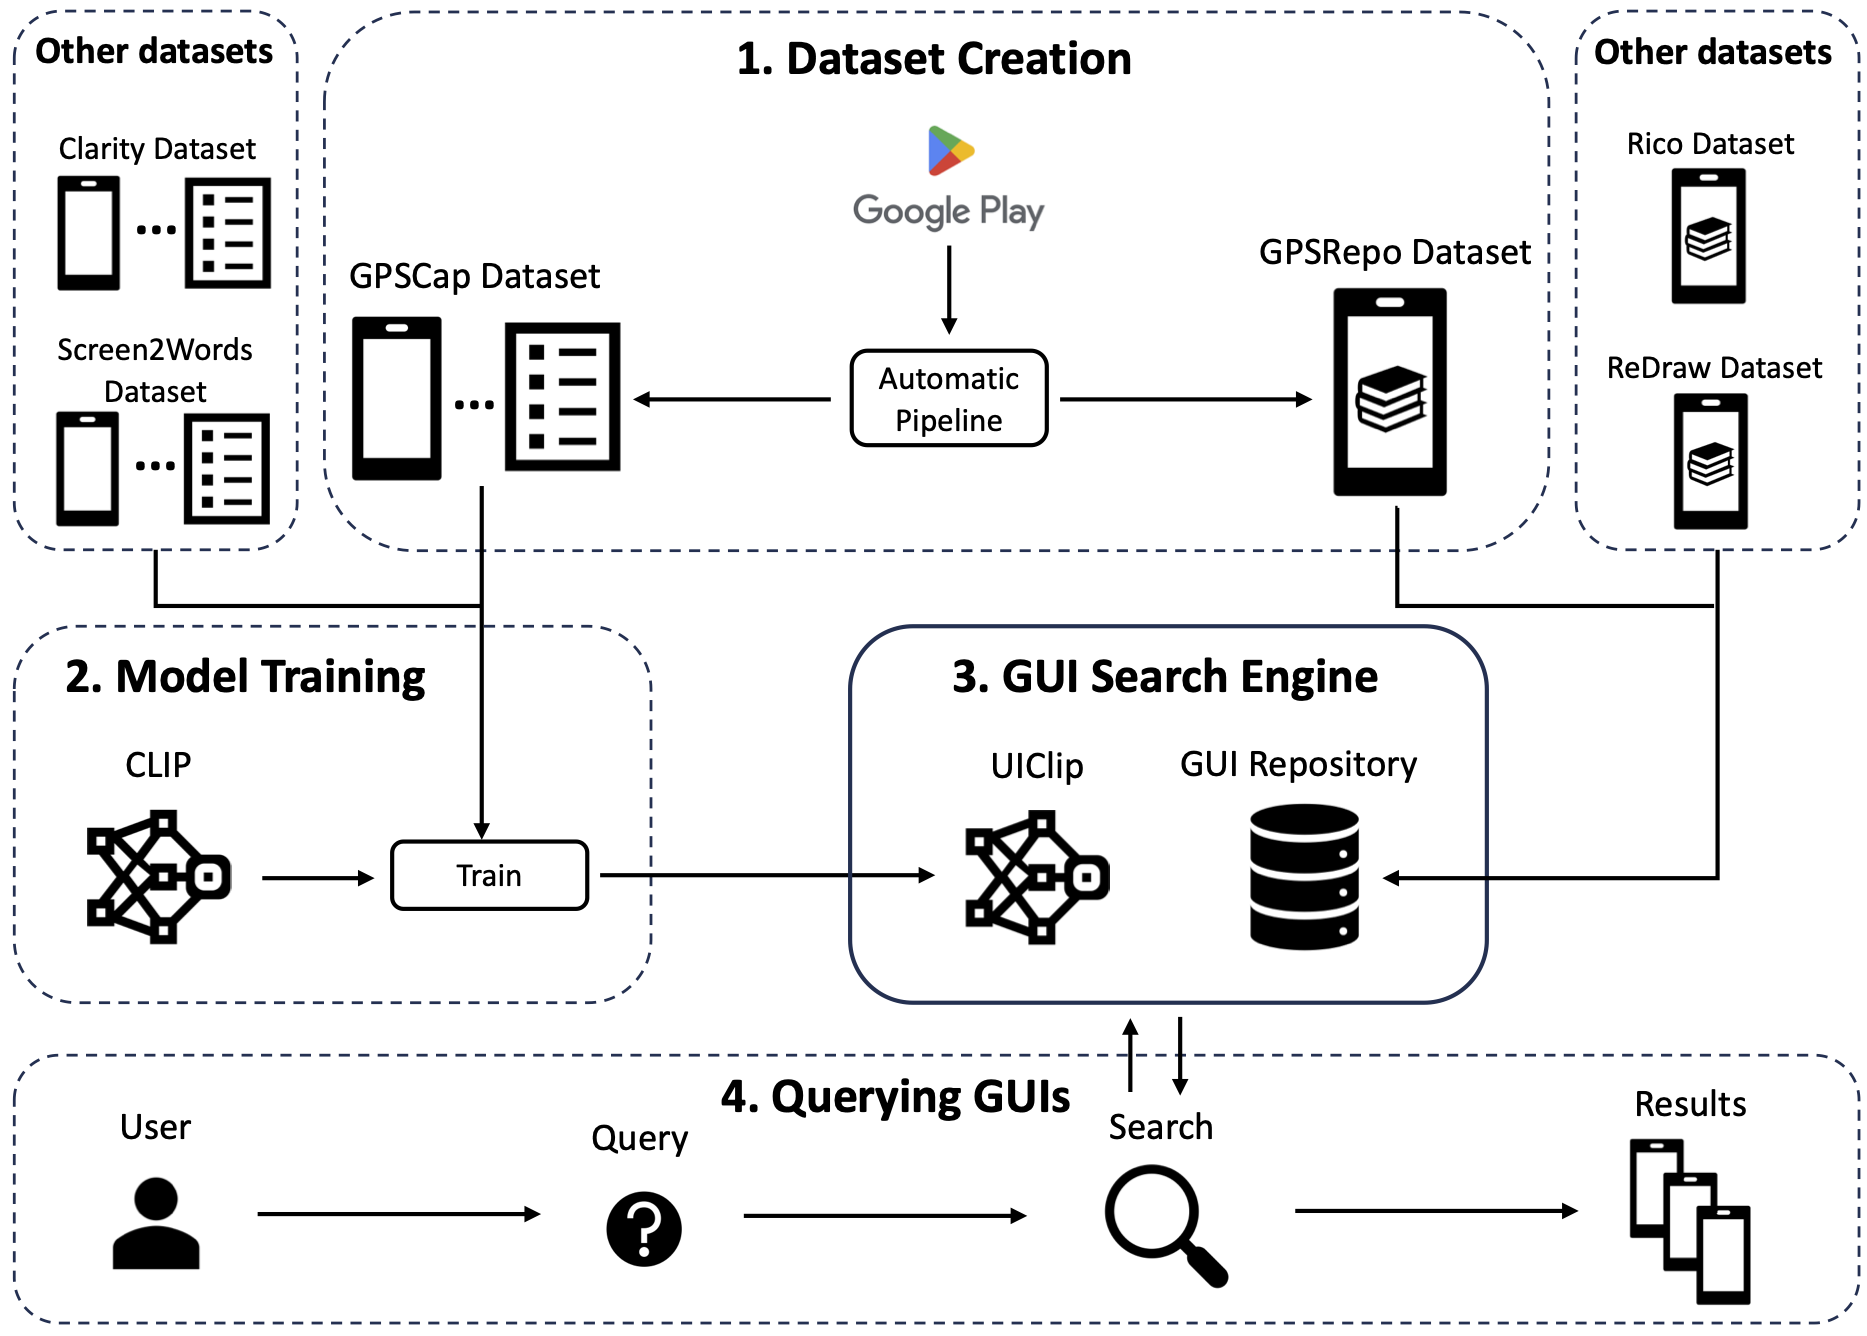
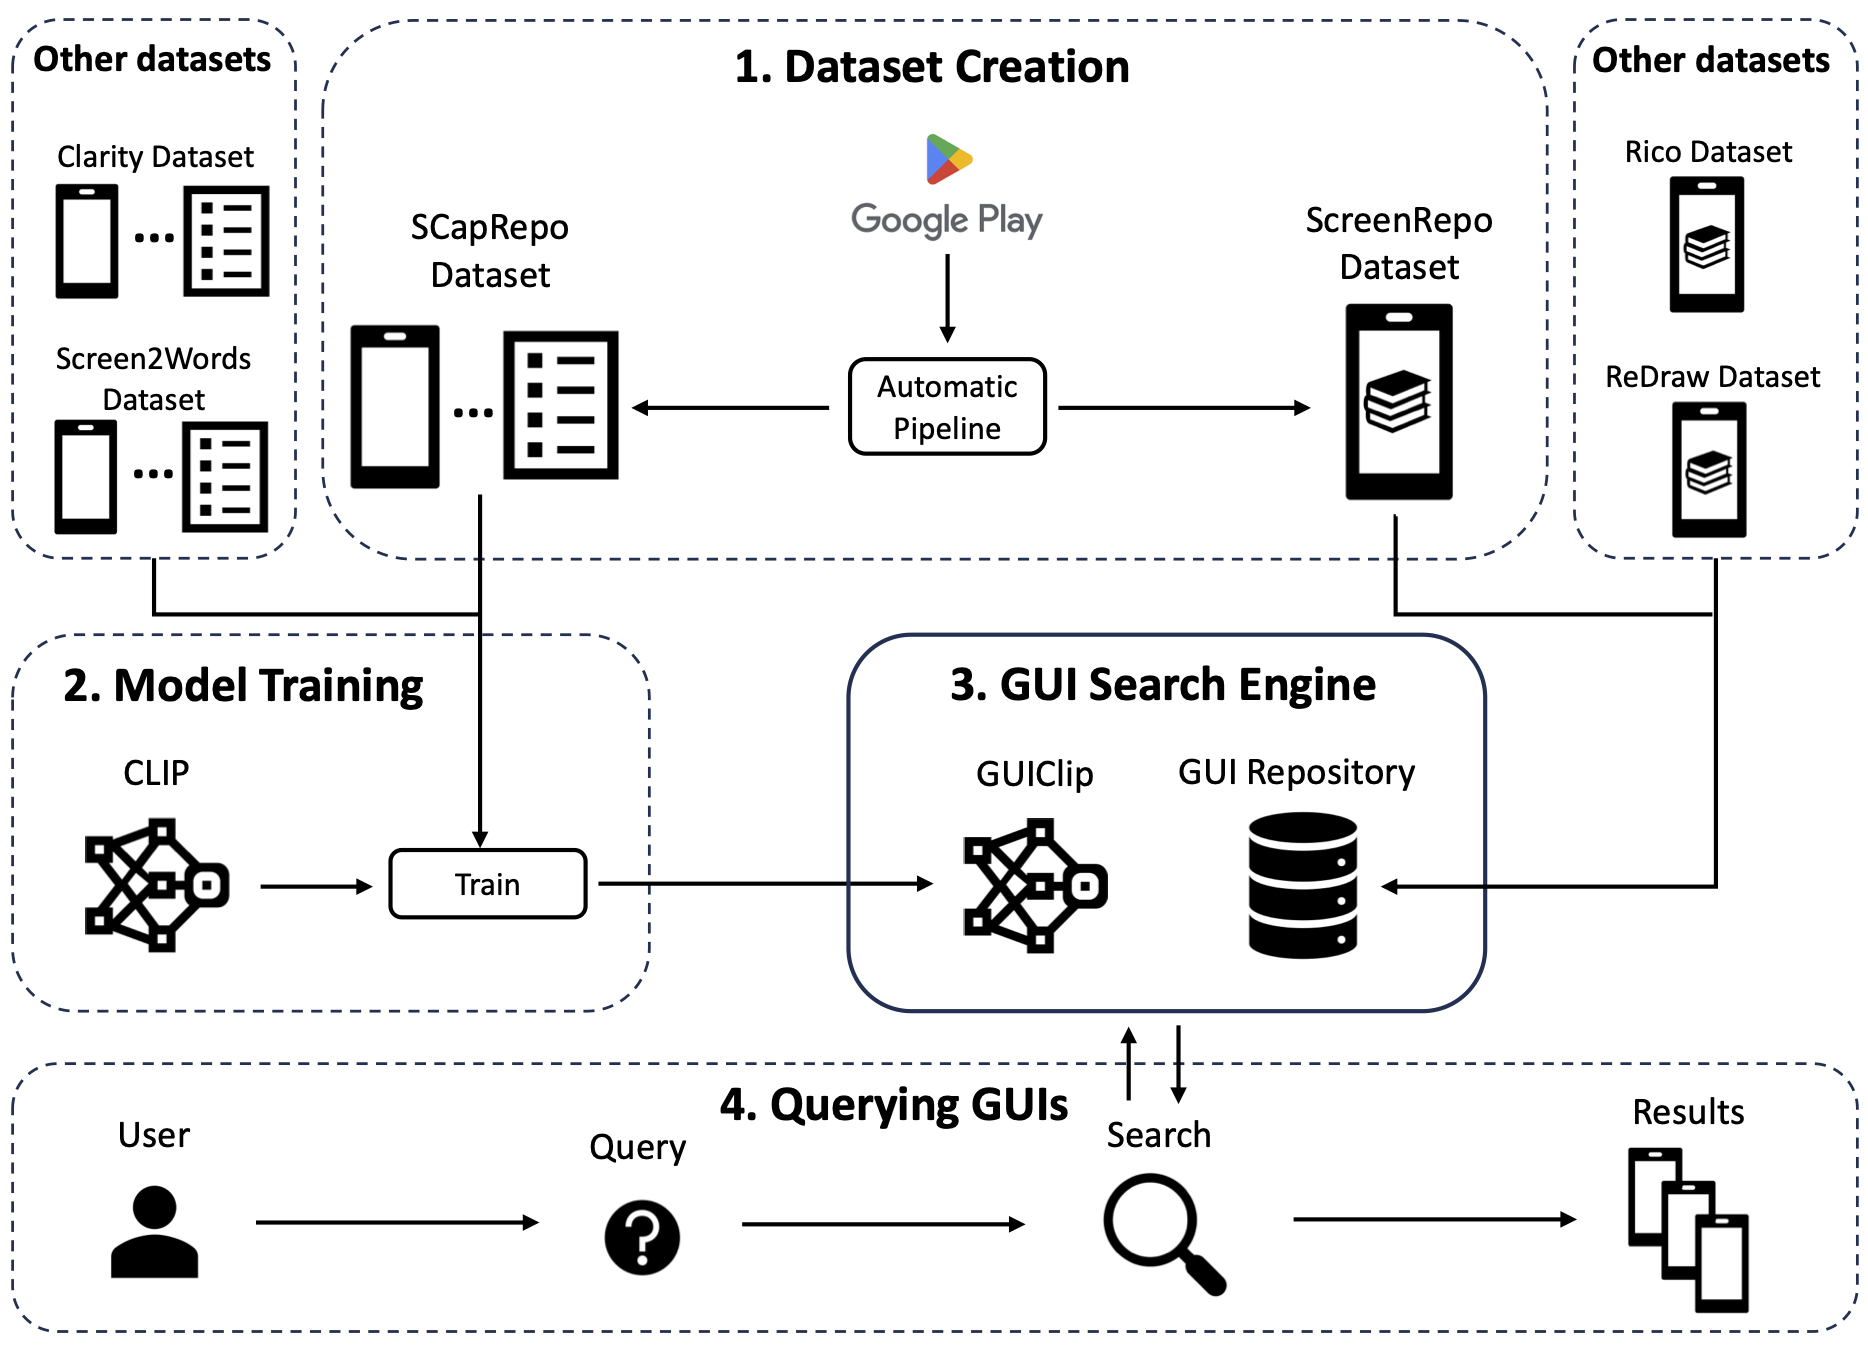
update model name, dataset name

diff --git a/readme.md b/readme.md
@@ -1,6 +1,6 @@
 # GUing: A Mobile GUI Search Engine using a Vision-Language Model
 
-GUing is a GUI search engine based on a large vision-language model called UIClip, which we trained specifically for the app GUI domain.
+GUing is a GUI search engine based on a large vision-language model called GUIClip, which we trained specifically for the app GUI domain.
 For this, we first collected app introduction images from Google Play, which usually display the most representative screenshots selected and often captioned (i.e.~labeled) by app vendors.
 Then, we developed an automated pipeline to classify, crop, and extract the captions from these images.
 This finally results in a large dataset which we share with this paper: including 303k app screenshots, out of which 135k have captions.
@@ -35,23 +35,23 @@ export GUI_SEARCH_ROOT_PATH= your project path
 export MONGODB_URI= your mongodb uri
 ```
 
-## UIClip
+## GUIClip
 
-You can find our `UIClip` model that was pretrained on GPSCap, Screen2Words and Clarity dataset at: https://huggingface.co/Jl-wei/uiclip-vit-base-patch32
+You can find our `GUIClip` model that was pretrained on SCapRepo, Screen2Words and Clarity dataset at: https://huggingface.co/Jl-wei/guiclip-vit-base-patch32
 
-### UIClip for GUI retrieval
+### GUIClip for GUI retrieval
 
-The code for UIClip training and testing is in the `retrieval` folder.
+The code for GUIClip training and testing is in the `retrieval` folder.
 
 To train the classifier, use the `train_clip.py` script.
 
 To run the classifier on whole dataset, use the `test.py` script.
 
-### UIClip for image classification
+### GUIClip for image classification
 
 The code is in the `more_applications/classification` folder.
 
-### UIClip for text-to-sketch retrieval
+### GUIClip for text-to-sketch retrieval
 
 The code is in the `more_applications/sketch` folder.
 
@@ -59,7 +59,7 @@ The code is in the `more_applications/sketch` folder.
 
 ## Dataset
 
-The labels for the `GPSCap` (Google Play Screenshot Caption) dataset are available at `dataset/google_play/captioning`. Due to their substantial size, we are unable to provide the images directly. However, you can download these images from Google Play using the IDs provided in the `data.jsonl` file, and then crop them according to the specified bounding boxes.
+The labels for the `SCapRepo` (Google Play Screenshot Caption) dataset are available at `dataset/google_play/captioning`. Due to their substantial size, we are unable to provide the images directly. However, you can download these images from Google Play using the IDs provided in the `data.jsonl` file, and then crop them according to the specified bounding boxes.
 
 The datasets utilized for training the image classifier (`dataset/google_play/classification`) and the screen cropper (`dataset/google_play/detection`) will be released upon the acceptance of our paper.
 
